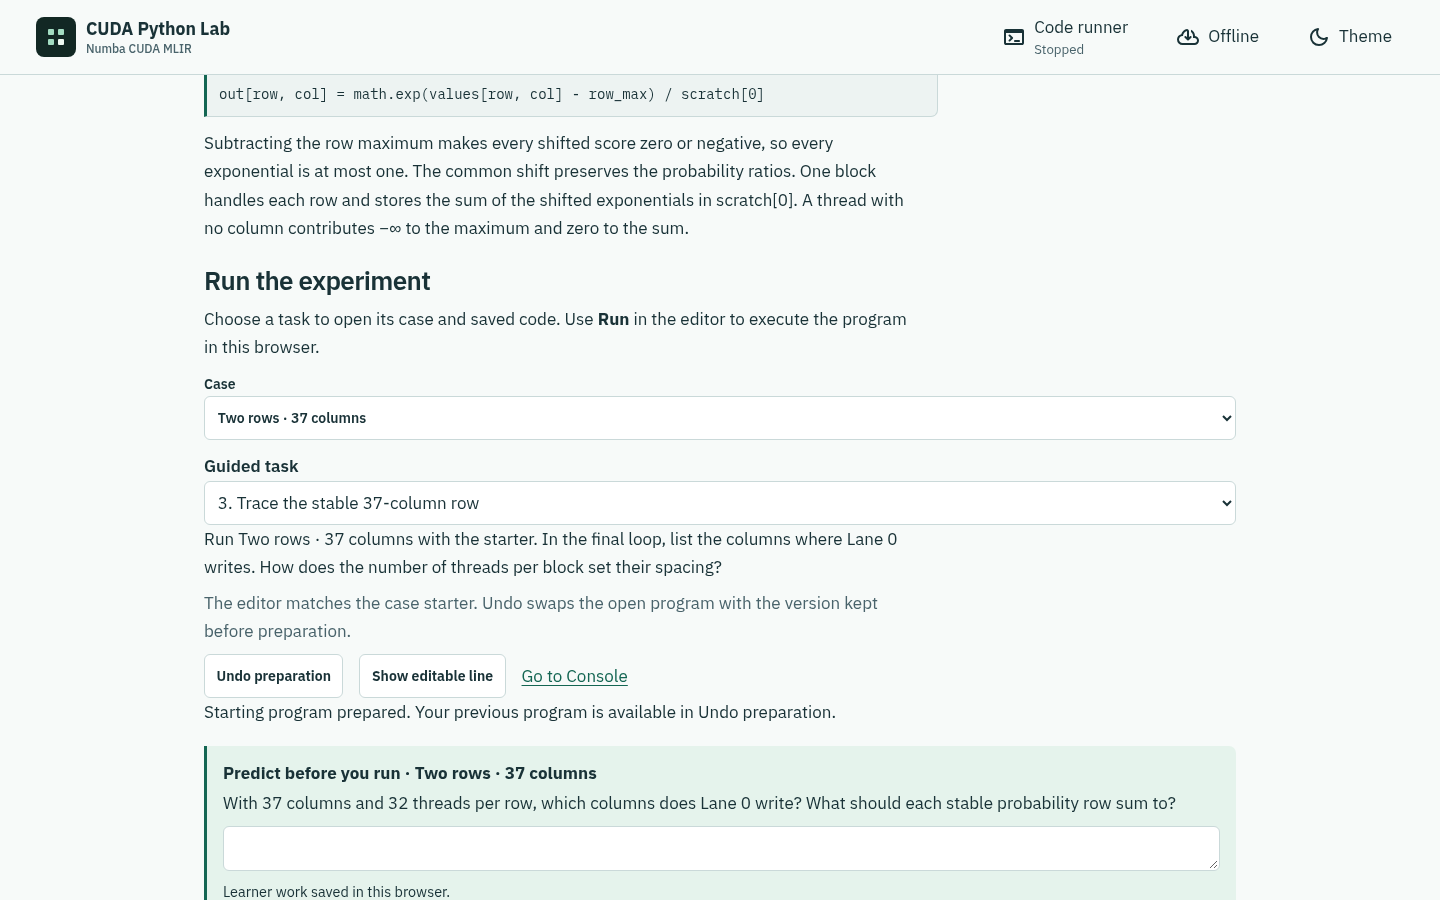
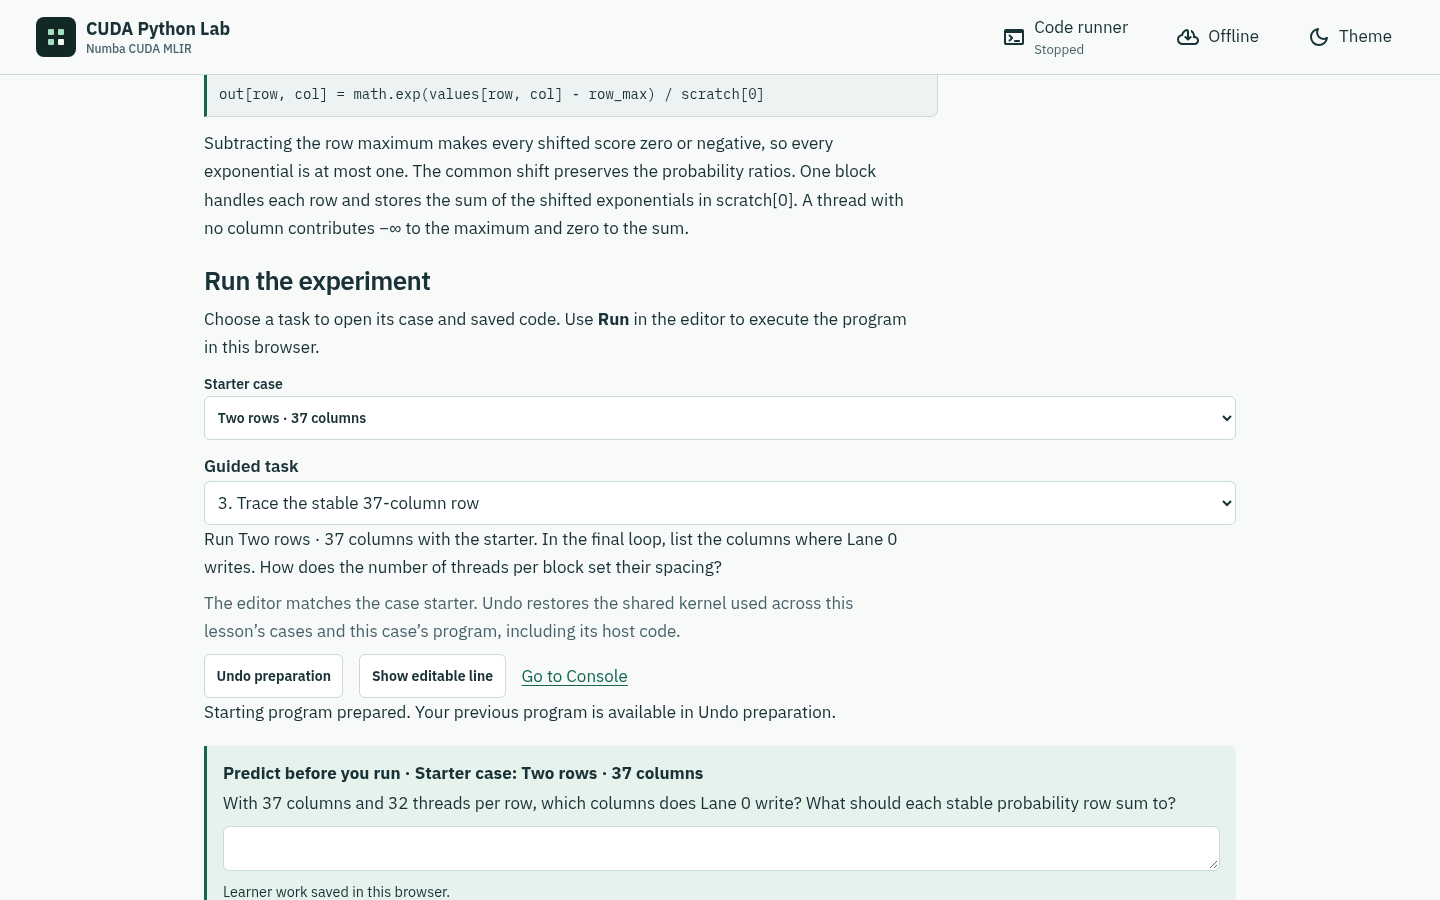
Record review reproduction, cross-case recovery and final experiment evidence

Changed region(s): [[0.1562, 0.6533, 0.625, 0.7156], [0.2812, 0.84, 0.5, 0.8711], [0.125, 0.4044, 0.1875, 0.4356]]

diff --git a/docs/testing/issue-45/README.md b/docs/testing/issue-45/README.md
@@ -2,6 +2,8 @@
 
 On the merged persistence release, switching from the edited 16-value stencil to 13 inputs carried the omitted halo into the partial block. Index 8 was 19. Restoring the original load gave 27. The unstable softmax kernel likewise produced NaNs on the 37-column fixture, while the question still described five logits and displayed the first case’s answer. Tiled transpose and precision also carried the edited code even though their output arrays matched the starter. I reproduced all four on main at `3d4e7e1`. [Probe](baseline.mjs) · [Full baseline output](baseline.log) · [Audit findings A01/A03](../../course-audit/README.md)
 
+The independent review follow-up covers the reproduced undo defect with a standalone case program, protection of edits from other tabs, and the revised starter labels. [Reproduction, regressions and screenshots](review/README.md)
+
 ## Acceptance evidence
 
 | Issue #45 criterion | What ran | Evidence |
@@ -10,7 +12,7 @@ On the merged persistence release, switching from the edited 16-value stencil to
 | Pristine and edited execution | 38 pristine and 56 guided executions of the bundled compiler and GPGPU-Sim. The 58 guided phases cover 46 runnable phases and 12 source reasoning phases. The harness compared the full exported source with independently reconstructed starting and edited code. It checked all returned values against the fixture or audit output, with a bounded observation for the racy histogram. For reasoning phases it followed the source anchor in the rendered editor. | [Replay](run-guides.mjs) · [Full cases, edits, hashes and Console output](guided-runs.jsonl) · [Execution log](guided.log) |
 | State, migration and reversible preparation | Explicit case switches, same-case conflicts, concurrent different cases, fresh tabs, navigation, reload, offline restart, legacy migration, pending and denied writes, export/retry, prepare/undo and a concurrent edit during the prepare read. Two actual course builds also ran on one origin. | [Storage and preparation regressions](../../../tests/learner-work.test.mjs) · [Two-tab offline update](../../../tests/lifecycle.test.mjs) · [Upgrade replay](check-upgrade.mjs) · [Upgrade log](upgrade.log) · [Older release boundary](handoff.log) |
 | Run, exports and progress | The sweep checked executed programs against their case-stamped stored run and actual Python downloads, and checked each runnable phase’s final source in its notebook. A separate precision probe ran two different programs with identical arrays, then checked the previous-result label through preparation, reload, undo, an ordinary edit, and a case switch. Legacy native-import adaptation, restore, undo, editable host and reversible completion retain regression coverage. | [Stale-result probe](result-provenance.mjs) · [Observed output](provenance.log) · [Browser tests](../../../tests/browser.test.mjs) · [Runner](../../../src/browser-runner.mjs) |
-| Regression suites and responsive UI | Clean-checkout commands, tool versions, release and simulator hashes are recorded. Thirty real lesson screenshots cover the different starting states and both questions at all three widths and both themes. | [Environment](environment.json) · [Main suite](npm-test.log) · [Simulator suite](npm-runner.log) · [Keyboard, layout and accessibility findings](ux.log) |
+| Regression suites and responsive UI | Clean-checkout commands, tool versions, release and simulator hashes are recorded. Thirty lesson screenshots cover the starting states and both questions. Twelve review screenshots cover cross-case undo and the edited launch. Both sets cover all three widths and both themes. | [Environment](environment.json) · [Main suite](npm-test.log) · [Simulator suite](npm-runner.log) · [Keyboard, layout and accessibility findings](ux.log) |
 | Implementation boundaries | The browser contains the guide, code and all reference inputs. The native appendix, recordings, simulator and single-case notebook model continue to use their existing interfaces. The UI explicitly labels starter excerpts, illustrative diagrams and recorded examples. | [Task definitions](../../../src/guided-experiments.mjs) · [Preparation controls](../../../src/guided-panel.mjs) · [Learner instructions](../../../README.md#browser-code-runner-and-offline-access) |
 
 ## How source and answers are owned
@@ -19,7 +21,7 @@ Each fixture has a permanent short ID scoped by the lesson. Each phase has a per
 
 Choosing a task selects its fixture and reads the learner’s effective program. The editor keeps the lesson’s shared kernel and the host draft for that case. Preparation compares the complete program byte for byte, including host instrumentation. When it differs, the guide names the source that would change. For example, unstable softmax starts with the row-sum print from the previous task, while the 37-column task starts with a clean, stabilized kernel and the wide fixture’s host. The learner explicitly chooses whether to prepare or keep experimenting.
 
-Preparation stores the displaced complete program under `preparations[lesson][fixtureId]` and writes the source through the existing shared-kernel and per-case host paths. Those synchronous edits enter the same IndexedDB transaction. Undo swaps the two programs, including host changes made after preparation. Replacing an occupied undo slot during a later preparation archives its previous value under the existing bounded recovery policy. A full archive or failed write retains pending edits for export and retry. The UI announces that the undo copy is available after the transaction commits. If a write fails, it directs the learner to export or retry. The ordinary **Restore starter** and **Undo restore** retain their own independent slot. A fresh database read checks the open text, case, selected task and undo version before a preparation proceeds.
+Preparation stores the visible program, the exact case-specific program slot, the prior shared kernel and the installed kernel under `preparations[lesson][fixtureId]`. A null case slot or shared kernel records the absence of an explicit draft. Undo restores the two original ownership units in the same transaction, including the absence of an override. It also preserves intervening shared-kernel edits in recovery. Undo swaps the two programs, including host changes made after preparation. Replacing an occupied undo slot during a later preparation archives its previous value under the existing bounded recovery policy. A full archive or failed write retains pending edits for export and retry. The UI announces that the undo copy is available after the transaction commits. If a write fails, it directs the learner to export or retry. The ordinary **Restore starter** and **Undo restore** retain their own independent slot. A fresh database read checks the open text, case, selected task and undo version before a preparation proceeds.
 
 The optional prediction is explicitly labeled for its selected case. All tasks using that case share its single named question and answer. A different case has a separate `caseAnswers[lesson][fixtureId]` path. Conflicts, backups, storage failures, stale previews and explicit loading use the existing transaction model. New runs carry the fixture ID and complete source. Older results use their existing case-specific slot. Free edits continue to execute from the open editor, including when the output intentionally differs from the starter or when the same array can arise from two different programs.
 
@@ -54,6 +56,6 @@ OLD_DIST=/path/to/built-main/dist node docs/testing/issue-45/check-upgrade.mjs
 BASE_DIST=/path/to/built-main/dist node docs/testing/issue-45/baseline.mjs
 ```
 
-The clean implementation revision is `050d47a077cf355f606a32758f97b08c6bfe8acf`. The browser release and asset hashes are in the environment file. The pull request also links the GitHub Actions checks for its final evidence commit. The first regression run caught an omitted link to GPU setup. The production link was restored. An intermediate local rebuild also changed release identity when an untracked verification file appeared between two builds. The clean worktree preserves the original determinism assertion. The supplemental upgrade check uses two version-specific paths under one origin. A reload of that artificial nested path timed out waiting for the editor, so that check verifies the committed data in an independently opened tab. Actual reload and offline service-worker handoff are exercised separately by the site-root lifecycle suite.
+The clean implementation revision is `6e2b668a9abc2ae9d5322be5d96c4208da147f8a`. The browser release and asset hashes are in the environment file. The pull request also links the GitHub Actions checks for its final evidence commit. The first regression run caught an omitted link to GPU setup. The production link was restored. An intermediate local rebuild also changed release identity when an untracked verification file appeared between two builds. The clean worktree preserves the original determinism assertion. The supplemental upgrade check uses two version-specific paths under one origin. A reload of that artificial nested path timed out waiting for the editor, so that check verifies the committed data in an independently opened tab. Actual reload and offline service-worker handoff are exercised separately by the site-root lifecycle suite.
 
 Axe-core 4.14.1 reported zero violations in the inspected task and prediction sections. Its contrast check was incomplete for the two prediction-focused views. A separate check of the rendered answer field measured an opaque text-to-background ratio of 13.52:1 in light mode and 12.02:1 in dark mode. [Computed colors and ratios](contrast.log) · [Contrast check](contrast.mjs) Physical touch devices, screen-reader listening, other browser engines and learner studies remain untested. Correctness results use the bundled simulator. Sector, bank, lane and traffic counts are calculated from the shown program and inputs. The invalid early-return barrier was a reasoning exercise. Native notebook execution, hardware timing, counter measurements and race frequency on NVIDIA hardware were outside this change.

diff --git a/docs/testing/issue-45/review/README.md b/docs/testing/issue-45/review/README.md
@@ -1,0 +1,47 @@
+# Independent review of PR #46
+
+## Undo of shared and independent programs
+
+I reproduced the reported defect with two softmax cases on the reviewed application. The first case had a shared kernel with the maximum shift removed. The second case had a valid standalone Python file with an ordinary comment in place of the course’s host separator. Preparing the wide starter updated the shared kernel. Undo recovered the exact second file, but the first case exported the stabilized starter and lost its earlier behavior. [Original review](https://github.com/snowch/cuda-python-lab/pull/46#issuecomment-7238611073) · [Reproduction](reproduce.mjs) · [Observed baseline](before.log)
+
+The preparation slot now keeps four values.
+
+| Field | Value |
+| --- | --- |
+| `program` | The complete source visible in the editor before the change. |
+| `caseProgram` | The exact serialized program owned by the selected case. |
+| `sharedKernel` | The lesson’s shared kernel before the change. |
+| `installedKernel` | The shared kernel installed by this preparation or swap. |
+
+Null represents an absent override. Undo restores or removes the original case and shared slots in one IndexedDB transaction. The previous raw case program can intentionally contain an older embedded kernel. Restoring its raw bytes separately preserves the original case host and the original effective source. Other cases keep their case-specific host edits. [Preparation and guard](../../../../src/guided-panel.mjs) · [Atomic owned-field changes](../../../../src/app.mjs) · [Merge and conflict handling](../../../../src/learner-work.mjs)
+
+The UI describes the affected case program and the shared kernel when Undo would change them. A program that has become stale requires an explicit review and load first. If the confirmed kernel has changed since preparation, the Undo notice says the newer kernel will enter recovery. A kernel that wins a write after the preflight check is also protected by the transactional base-value conflict check. A blocked transaction leaves pending work exportable and preserves the preceding durable record. A text-only undo slot from the earlier implementation reopens its complete source. A separator-free legacy slot leaves the current shared kernel in place. A legacy slot containing a split program can restore its earlier kernel, but lacks the identity of the kernel it originally installed. The UI discloses the missing history and conservatively retains the displaced current kernel in recovery.
+
+The real multi-tab regression checked both exact Python exports through preparation, reload, injected quota denial, retry and reopen. The failed transaction kept both prepared fields in the database. Retry restored both original serialized program records and the original shared draft byte for byte. Another tab then saved a new kernel. The stale Undo was disabled. After explicit review, Undo restored both original effective sources and kept the newer kernel in both the swap slot and recovery. The compatibility tests also reopened an empty saved program, removed an originally absent case override on swap-back, and verified the exact kernel archived by a split legacy slot. [Chromium regressions](../../../../tests/learner-work.test.mjs) · [Execution log](../npm-test.log)
+
+## Starter assumptions in the rendered lesson
+
+The selector now says **Starter case**, and the prediction label names the same starter case explicitly. The vector-add width task compares the original 2 × 32 launch with the edited 3 × 16 launch. The grid-stride task contrasts the starter’s 16 total threads with the edit’s 8. **Explain the authored examples** scopes the static interpretation to its examples. Both edited programs ran in GPGPU-Sim. The execution log pairs each edited-launch output with the text shown to the learner. The full replay records both source hashes. [Task definitions](../../../../src/guided-experiments.mjs) · [Rendered checks](inspect.mjs) · [Execution output](ux.log)
+
+At 390 px the cross-case warning wraps above the two preparation buttons, and the line and Console links continue on the next row. At 820 and 1440 px all four controls fit on one row. Loading a newer program clears the old preparation confirmation so that the current warning stands on its own.
+
+| Viewport | Scope of undo after an intervening edit | Starter assumption and edited launch |
+| --- | --- | --- |
+| 390 px · light | [Undo and recovery](screenshots/undo-scope-390-light.png) | [Launch comparison](screenshots/edited-launch-390-light.png) |
+| 390 px · dark | [Undo and recovery](screenshots/undo-scope-390-dark.png) | [Launch comparison](screenshots/edited-launch-390-dark.png) |
+| 820 px · light | [Undo and recovery](screenshots/undo-scope-820-light.png) | [Launch comparison](screenshots/edited-launch-820-light.png) |
+| 820 px · dark | [Undo and recovery](screenshots/undo-scope-820-dark.png) | [Launch comparison](screenshots/edited-launch-820-dark.png) |
+| 1440 px · light | [Undo and recovery](screenshots/undo-scope-1440-light.png) | [Launch comparison](screenshots/edited-launch-1440-light.png) |
+| 1440 px · dark | [Undo and recovery](screenshots/undo-scope-1440-dark.png) | [Launch comparison](screenshots/edited-launch-1440-dark.png) |
+
+## Verification
+
+The reviewed application code was identical to the source in the baseline build at `050d47a`. The intervening commit added evidence. Revised source `6e2b668a9abc2ae9d5322be5d96c4208da147f8a` was built from clean worktrees and passed the hosted browser build and CPU-only PTX compilation. The PR also links checks for the final evidence commit. [Implementation CI](https://github.com/snowch/cuda-python-lab/actions/runs/46141383494) The parent verification guide contains full logs, the regenerated 51-instruction matrix, screenshots, environment details and modality limits. [Acceptance evidence and limitations](../README.md)
+
+To repeat the baseline, set `REVIEW_DIST` to a built copy of the reviewed application and run the reproduction from the revised checkout. The other two commands use the revised build. [Browser setup](../README.md#reproduction-and-limits)
+
+```sh
+REVIEW_DIST=/path/to/reviewed/dist node docs/testing/issue-45/review/reproduce.mjs
+node --test --test-name-pattern='undo restores the independent|earlier text-only|older split program' tests/learner-work.test.mjs
+CAPTURE_DIR=/tmp/cuda-review-screens node docs/testing/issue-45/review/inspect.mjs
+```
